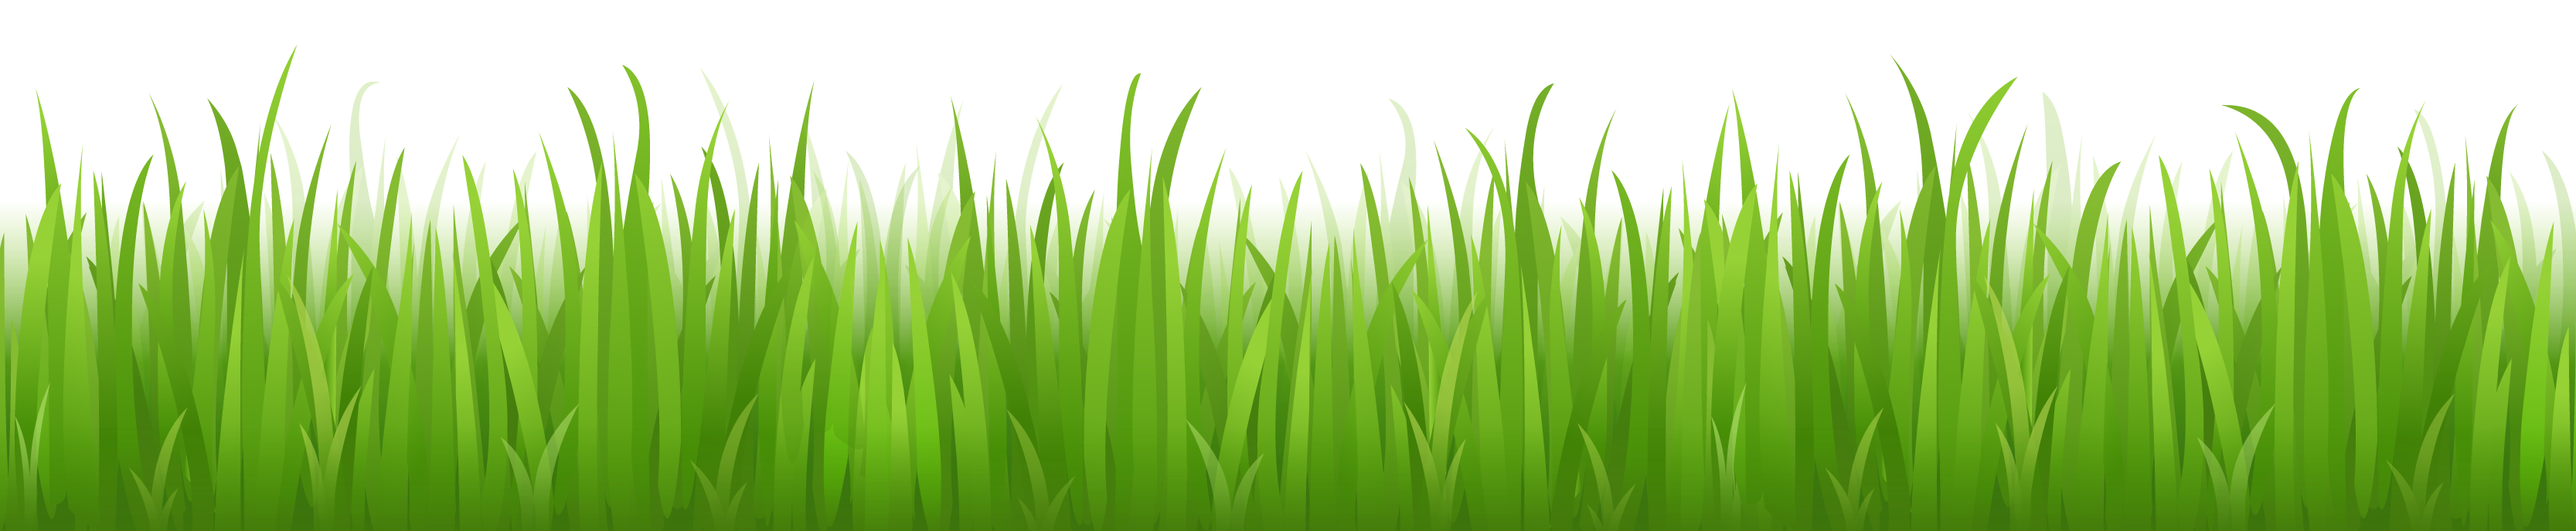
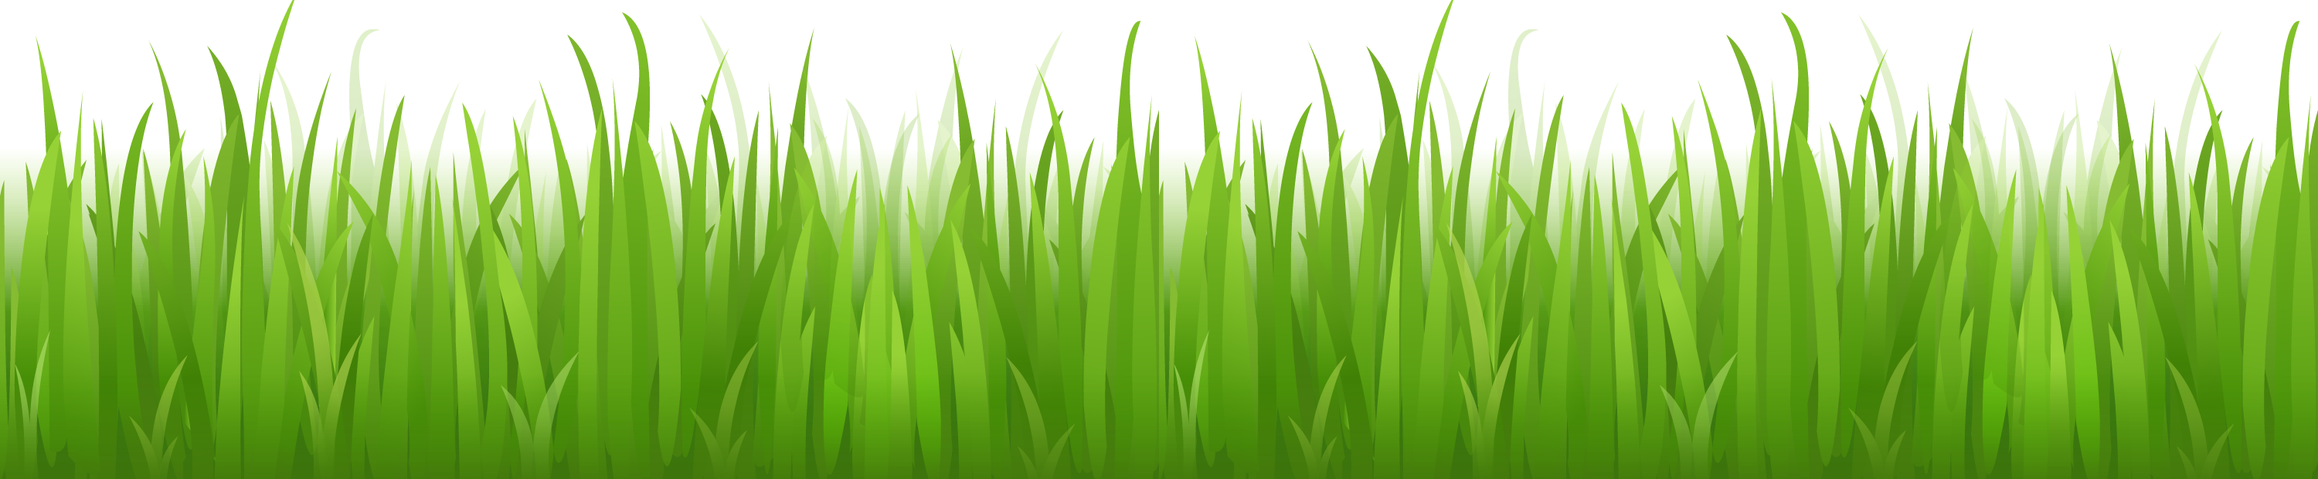
Fixed Grass Image, Added Grass Animation, Fixed Grass OOP

diff --git a/FlappyBird/FlappyBird/scripts/flappy-bird-main.js b/FlappyBird/FlappyBird/scripts/flappy-bird-main.js
@@ -3,12 +3,14 @@ window.onload = function () {
     var stage,
     stageWidth = 400,
     stageHeight = 500,
-    gameSpeed,
+    gameSpeed = 1,
     currentState,
     ninja, //ninja 
     obstacles = [], //pipes
+    grass,
     groundLevel = 70,
     groundLayer,
+    groundImageObj,
     ninjaLayer,
     obstaclesLayer,
     currentScore,
@@ -61,55 +63,70 @@ window.onload = function () {
     var obstacleAnimation = new Kinetic.Animation(updateObstacles, obstaclesLayer);
     obstacleAnimation.start();
 
+    var groundAnimation = new Kinetic.Animation(groundUpdate, groundLayer);
+    groundAnimation.start();
 
     function initalize(width, height) {
-
+        // Defining Stage
         stage = new Kinetic.Stage({
             container: 'container',
             width: width,
             height: height,
         });
 
+        // Defininf Layers
         ninjaLayer = new Kinetic.Layer();
         obstaclesLayer = new Kinetic.Layer();
         groundLayer = new Kinetic.Layer();
 
+        // Defining Images
         var ninjaImage = new Image();
         ninjaImage.src = 'imgs/ninja.png';
+        groundImageObj = new Image();
+
+        // initiating Objects
         ninja = new Ninja(75, 150, ninjaImage, 100, 100, playerJumpAcceleration);
+        grass = new Grass(0, stageHeight - (groundLevel * 1.5) , 'imgs/grass.png', stageWidth * 2, groundLevel * 1.5, gameSpeed)
+
+        // Drawing Layers
         ninjaLayer.add(ninja.img);
         stage.add(ninjaLayer);
+
+        groundImageObj.onload = function () {
+            var grassImg = new Kinetic.Image({
+                image: groundImageObj,
+                x: grass.x,
+                y: grass.y,
+                width: grass.width,
+                height: grass.height
+            });
+            groundLayer.add(grassImg);
+            stage.add(groundLayer);
+        }
+        groundImageObj.src = grass.imgSrc;
+
+        ////// end of drawing layers
 
         minPipeHeight = stage.height() / 4;
         maxPipeHeight = stage.height() * 3 / 4;
         gapHeight = ninja.img.height() * 2;
 
-
-        // Ground
-        groundLayer = new Kinetic.Layer();
-
-        var groundImageObj = new Image();
-        groundImageObj.onload = function () {
-            var grassImg = new Kinetic.Image({
-                image: groundImageObj,
-                x: 0,
-                y: stageHeight - groundLevel,
-                width: stageWidth,
-                height: groundLevel
-
-            });
-            groundLayer.add(grassImg);
-            stage.add(groundLayer);
-        }
-        groundImageObj.src = 'imgs/grass.png';
+        
 
         document.addEventListener('click', function () {
             ninja.jump();
         });
     }
 
+    function groundUpdate() {
+        //ground update
+        grass.update();
+        groundLayer.setX(grass.x);
+    }
+
     function update() {
         //obstacle update
+
         ninja.update();
         ninja.img.setY(ninja.y); //refactor
     }
@@ -126,6 +143,7 @@ window.onload = function () {
             //}
         }
         frames++;
+
         console.log(obstacles.length)
         if (frames === 100) { //TODO animation frame speed
 
@@ -178,4 +196,22 @@ window.onload = function () {
         }
     }
 
+    function Grass(x, y, imageSource, width, height, speed) {
+        this.x = x,
+        this.y = y,
+        this.width = width,
+        this.height = height,
+        this.speed = speed,
+        this.imgSrc = imageSource;
+
+
+        this.update = function () {
+            if (this.x > (-stageWidth)) {
+                this.x -= this.speed;
+            }
+            else {
+                this.x = 0;
+            }
+        }
+    }
 }
